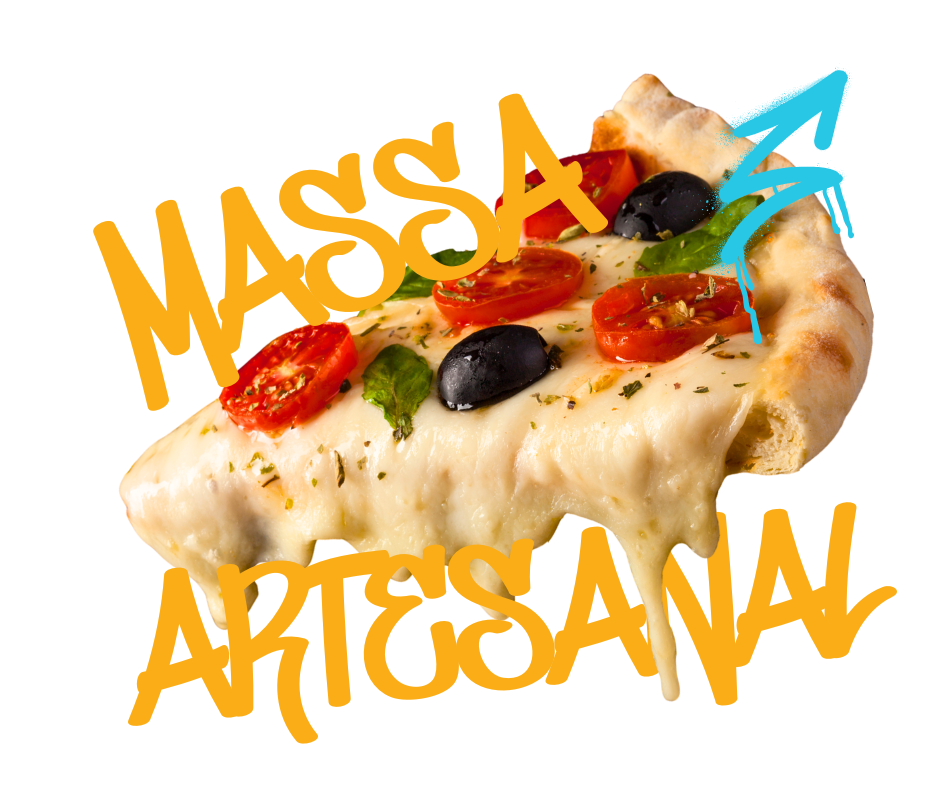
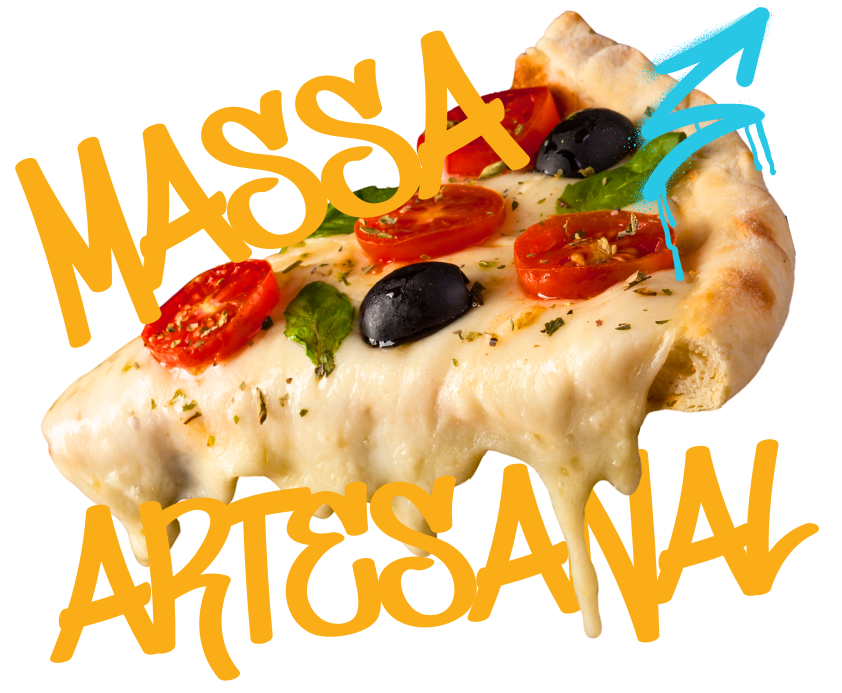
Ajustes Imagens Flutuantes

diff --git a/static/CSS/main.css b/static/CSS/main.css
@@ -447,9 +447,9 @@ footer {
 }
 
 .pizza-apresentacao7-img {
-    width: 650px;
+    width: 150px;
     top: -15%;
-    right: -5%;
+    right: 0%;
 }
 
 .pizza-apresentacao8-img {
@@ -459,7 +459,7 @@ footer {
 }
 
 .pizza-apresentacao9-img {
-    width: 650px;
+    width: 250px;
     top: 85%;
     right: 2%;
 }
@@ -689,8 +689,8 @@ footer {
 
 .pizza-apresentacao4-img {
     width: 350px;
-    top: -2%;
-    right: 1%;
+    top: -6%;
+    right: 3%;
     position: absolute;
 }
 
@@ -702,16 +702,16 @@ footer {
 }
 
 .pizza-apresentacao6-img {
-    width: 450px;
-    top: 60%;
-    left: -5%;
+    width: 350px;
+    top: 80%;
+    left: 0%;
     position: absolute;
 }
 
 .pizza-apresentacao7-img {
-    width: 650px;
-    top: -15%;
-    right: -5%;
+    width: 450px;
+    top: -35%;
+    right: 5%;
     position: absolute;
 }
 
@@ -725,7 +725,7 @@ footer {
 .pizza-apresentacao9-img {
     width: 650px;
     top: 85%;
-    right: 2%;
+    right: 5%;
     position: absolute;
 }
 
@@ -741,7 +741,7 @@ footer {
 @media (max-width: 1199px) {
     .pizza-apresentacao1-img {
         width: 50vw;
-        top: 95%;
+        top: 65%;
         right: 45%;
     }
 
@@ -868,13 +868,11 @@ footer {
 @media (max-width: 767px) {
 
     .pizza-apresentacao1-img,
-    .pizza-apresentacao3-img,
     .pizza-apresentacao5-img,
     .pizza-apresentacao6-img,
     .pizza-apresentacao7-img,
     .pizza-apresentacao8-img,
-    .pizza-apresentacao9-img,
-    .pizza-apresentacao10-img {
+    .pizza-apresentacao9-img {
         display: none;
     }
 
@@ -884,9 +882,20 @@ footer {
         right: 5%;
     }
 
+    .pizza-apresentacao3-img {
+        width: 70vw;
+        top: 120%;
+        left: -10%;
+    }
+
     .pizza-apresentacao4-img {
-        width: 20vw;
-        top: 5%;
+        width: 35vw;
+        top: -10%;
         right: 5%;
+    }
+    .pizza-apresentacao10-img {
+        width: 60vw;
+        top: -40%;
+        left: 0%;
     }
 }
